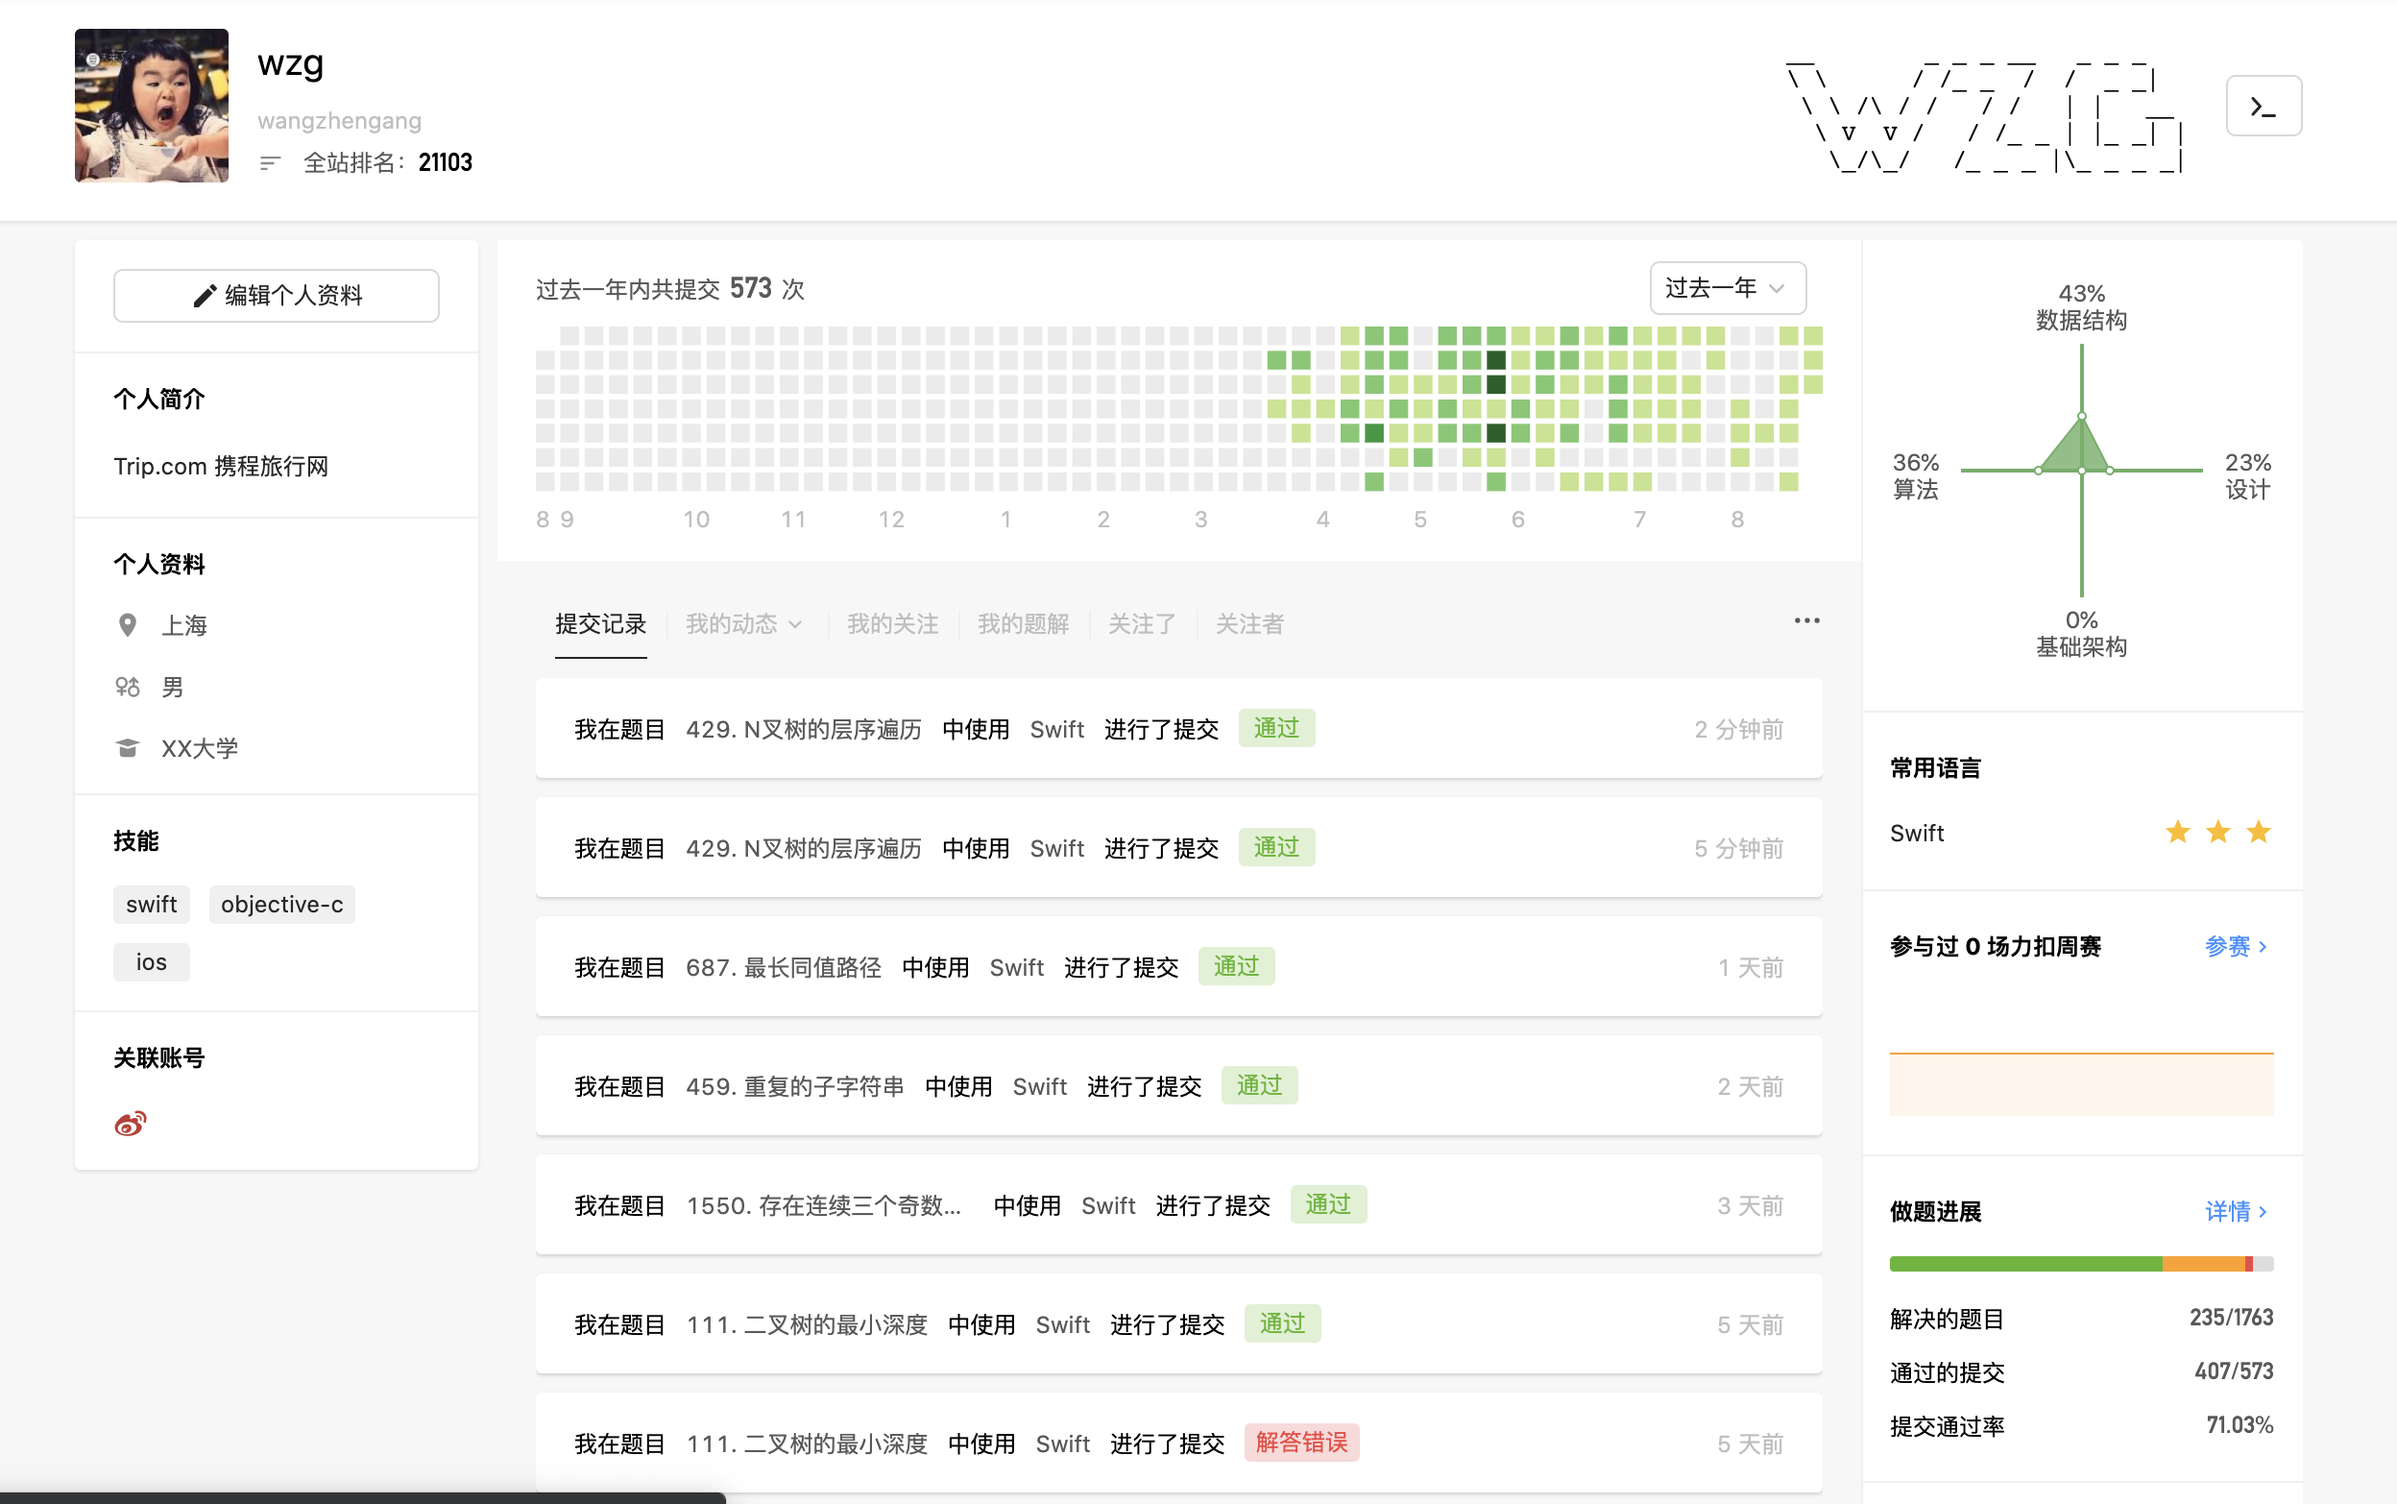
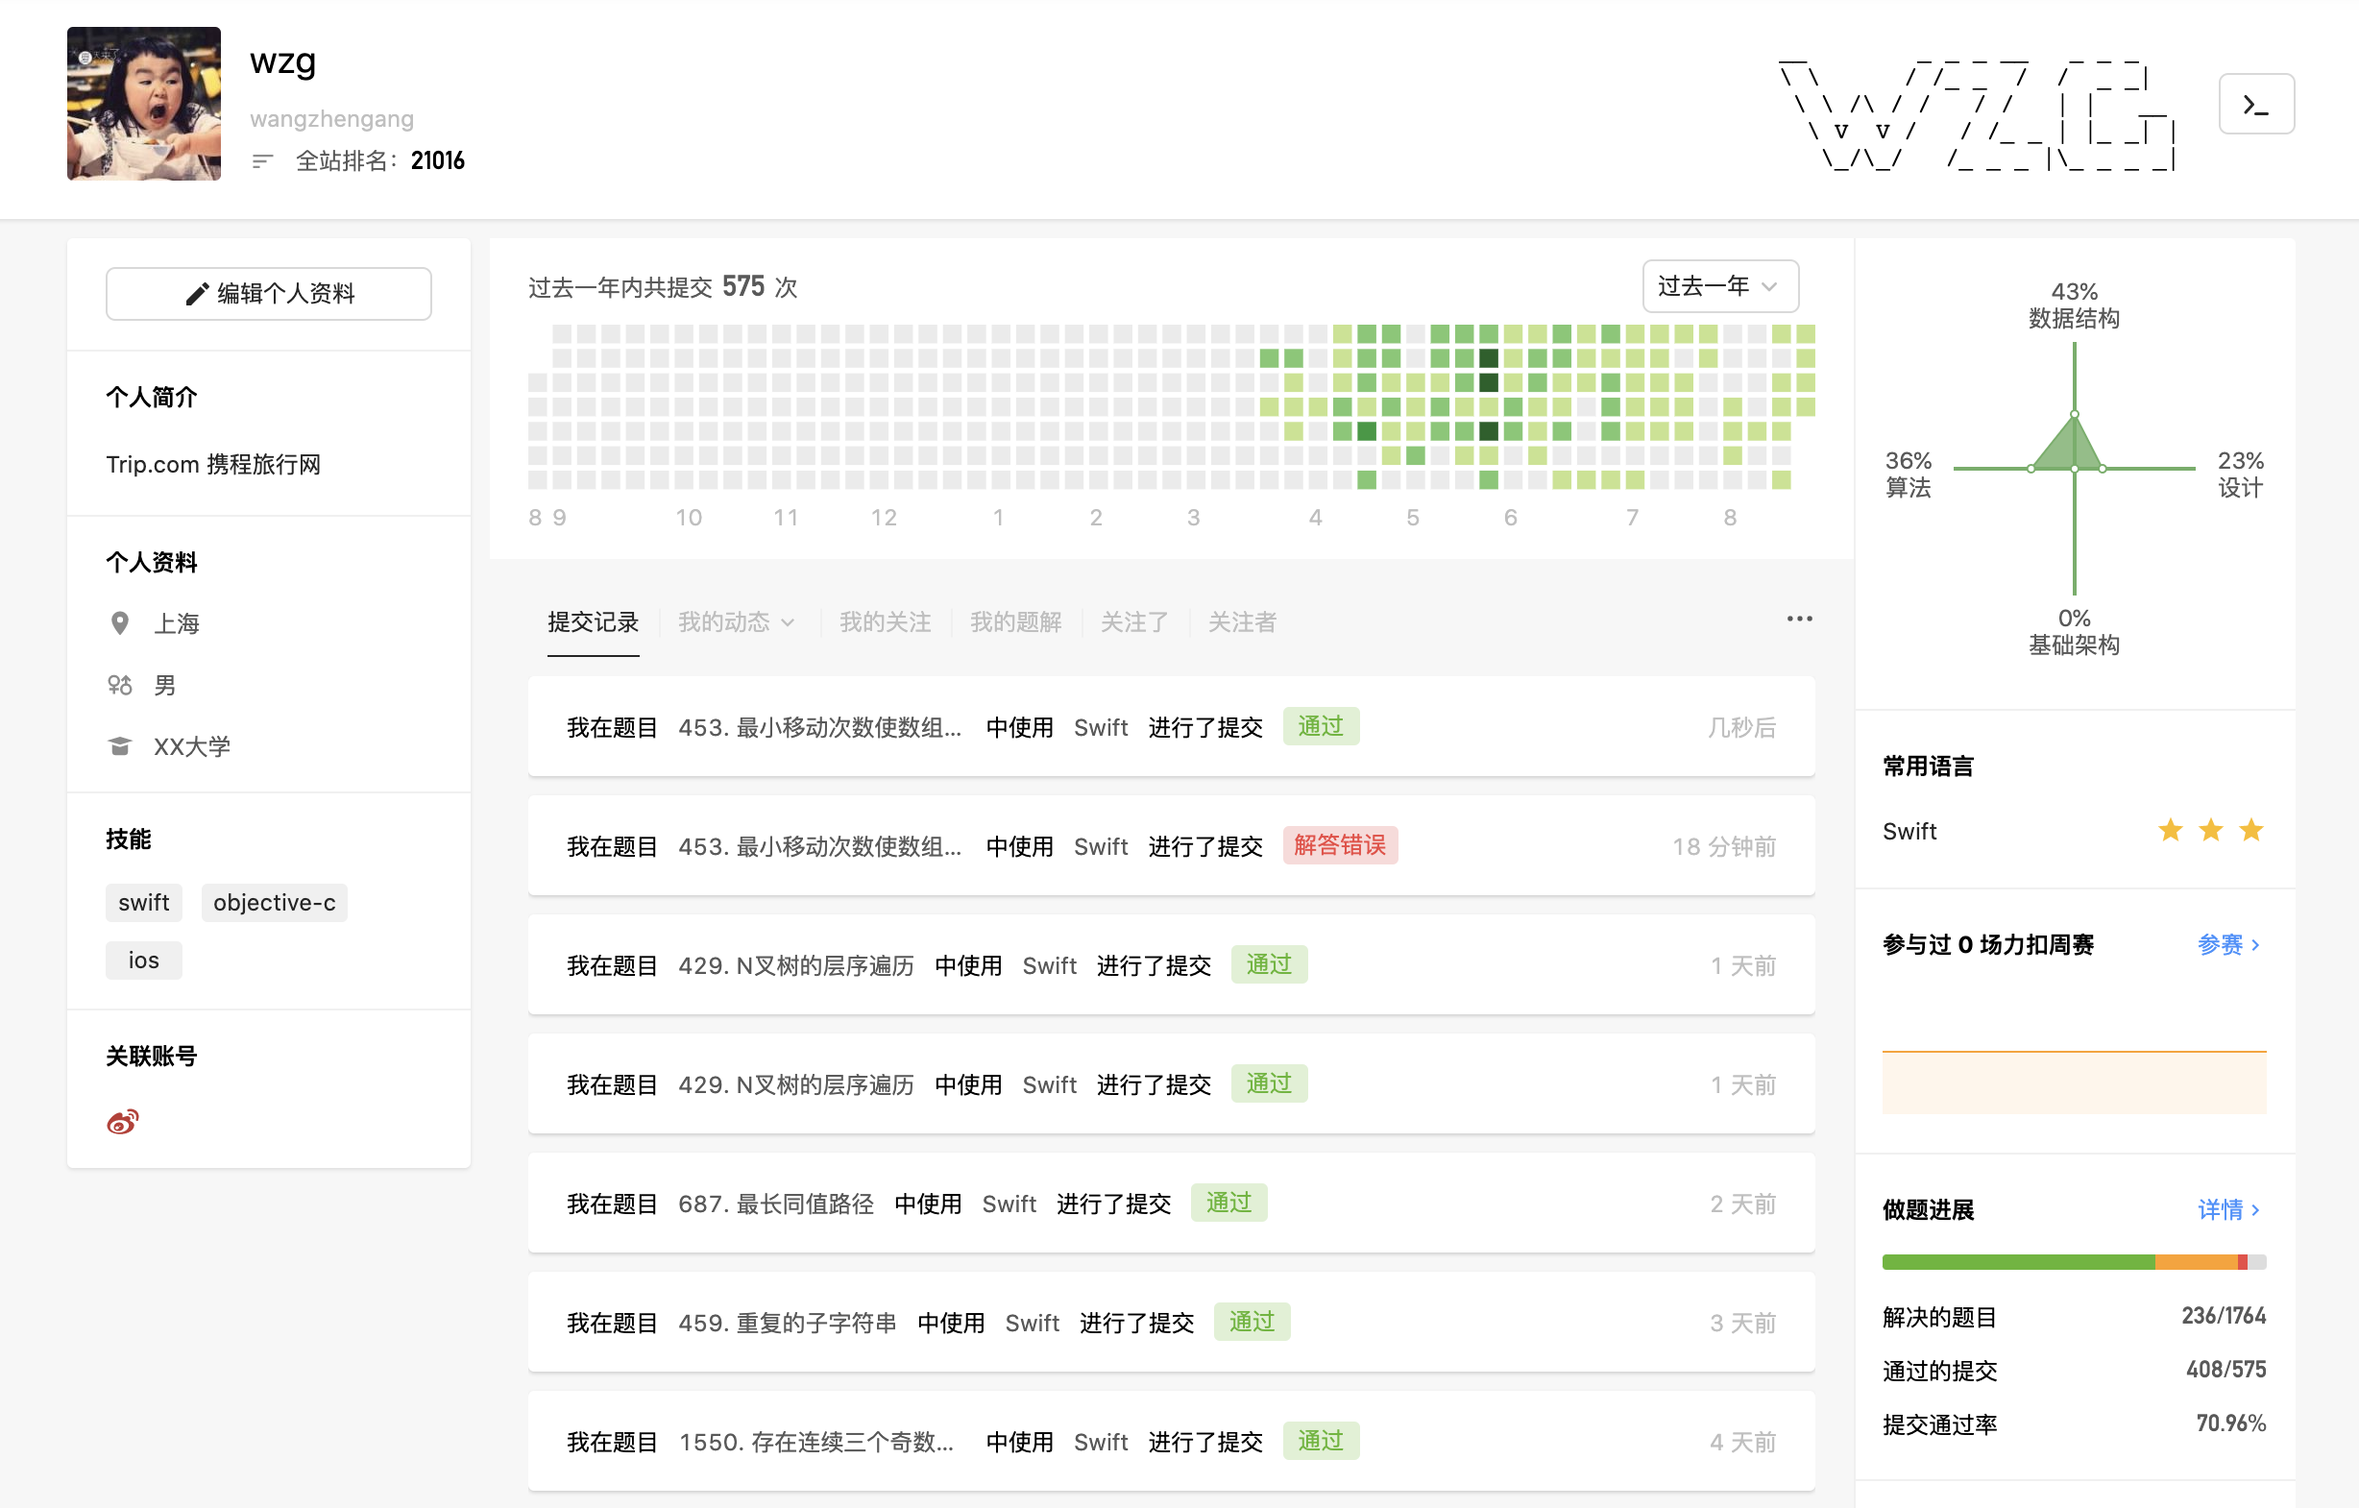
【共236题】：新增1题

diff --git a/LeetCodeTest/LeetCodeTest/main.swift b/LeetCodeTest/LeetCodeTest/main.swift
@@ -4354,6 +4354,16 @@ class Solution {
         return res
     }
     
+    ///453. 最小移动次数使数组元素相等
+    func minMoves(_ nums: [Int]) -> Int {
+        let array = nums.sorted()
+        var count = 0
+        for i in (0..<array.count).reversed() {
+            count += nums[i] - array[0]
+        }
+        return count
+    }
+    
 }
 
 // 1 2  2 1
@@ -4385,7 +4395,7 @@ for i in 1...10000 {
 }
  
 let c = Date().milliStamp
-let r = s.levelOrder_IV( nil )
+let r = s.minMoves( [83,86,77,15,93,35,86,92,49,21] )
 print(r)
 let m = Date().milliStamp - c
 print(m)
